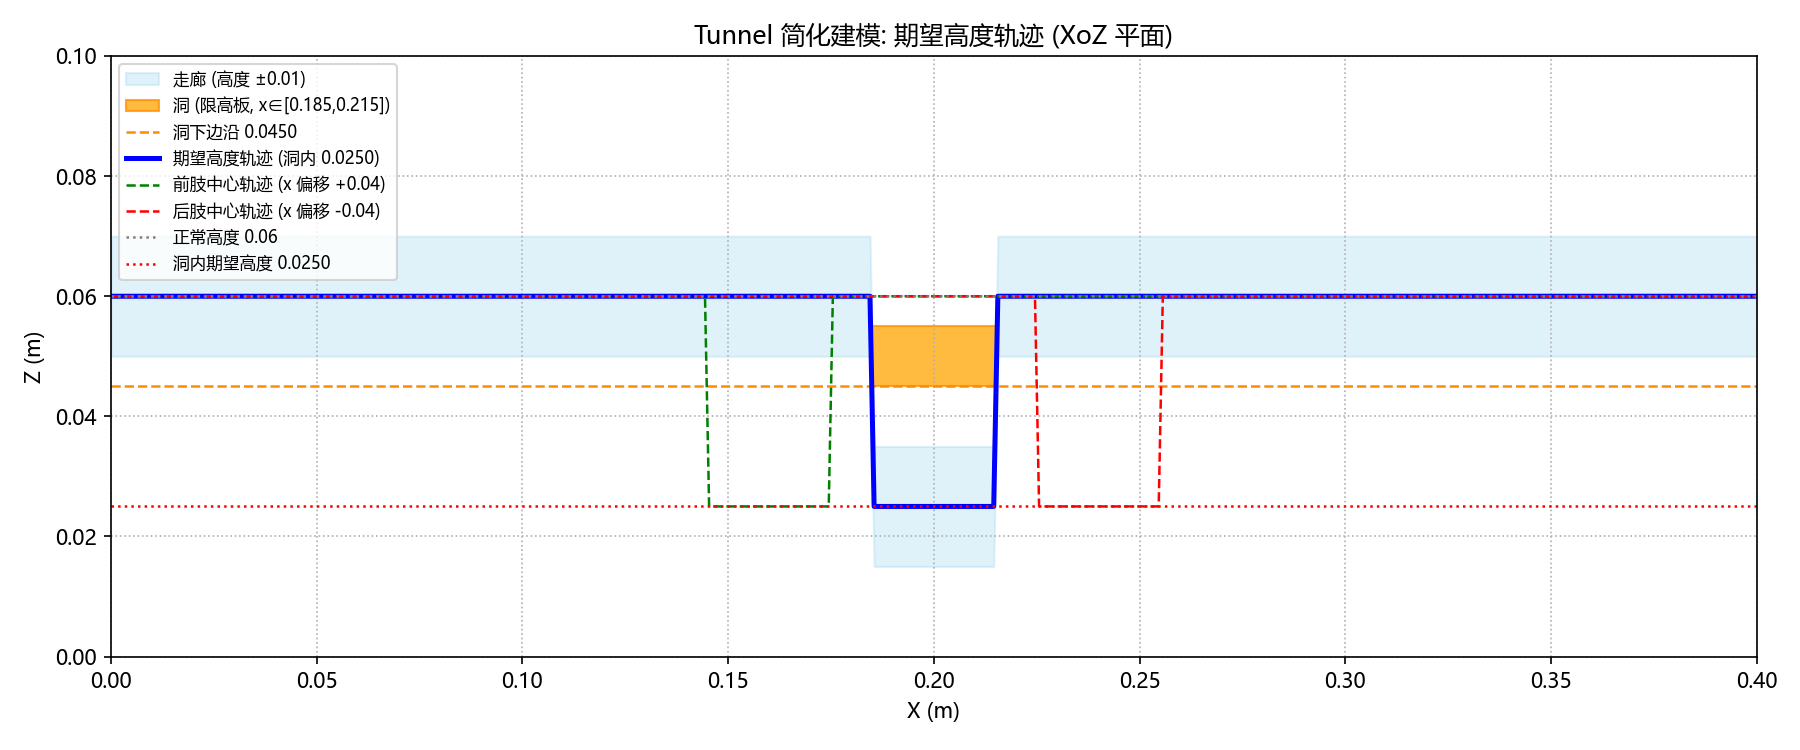
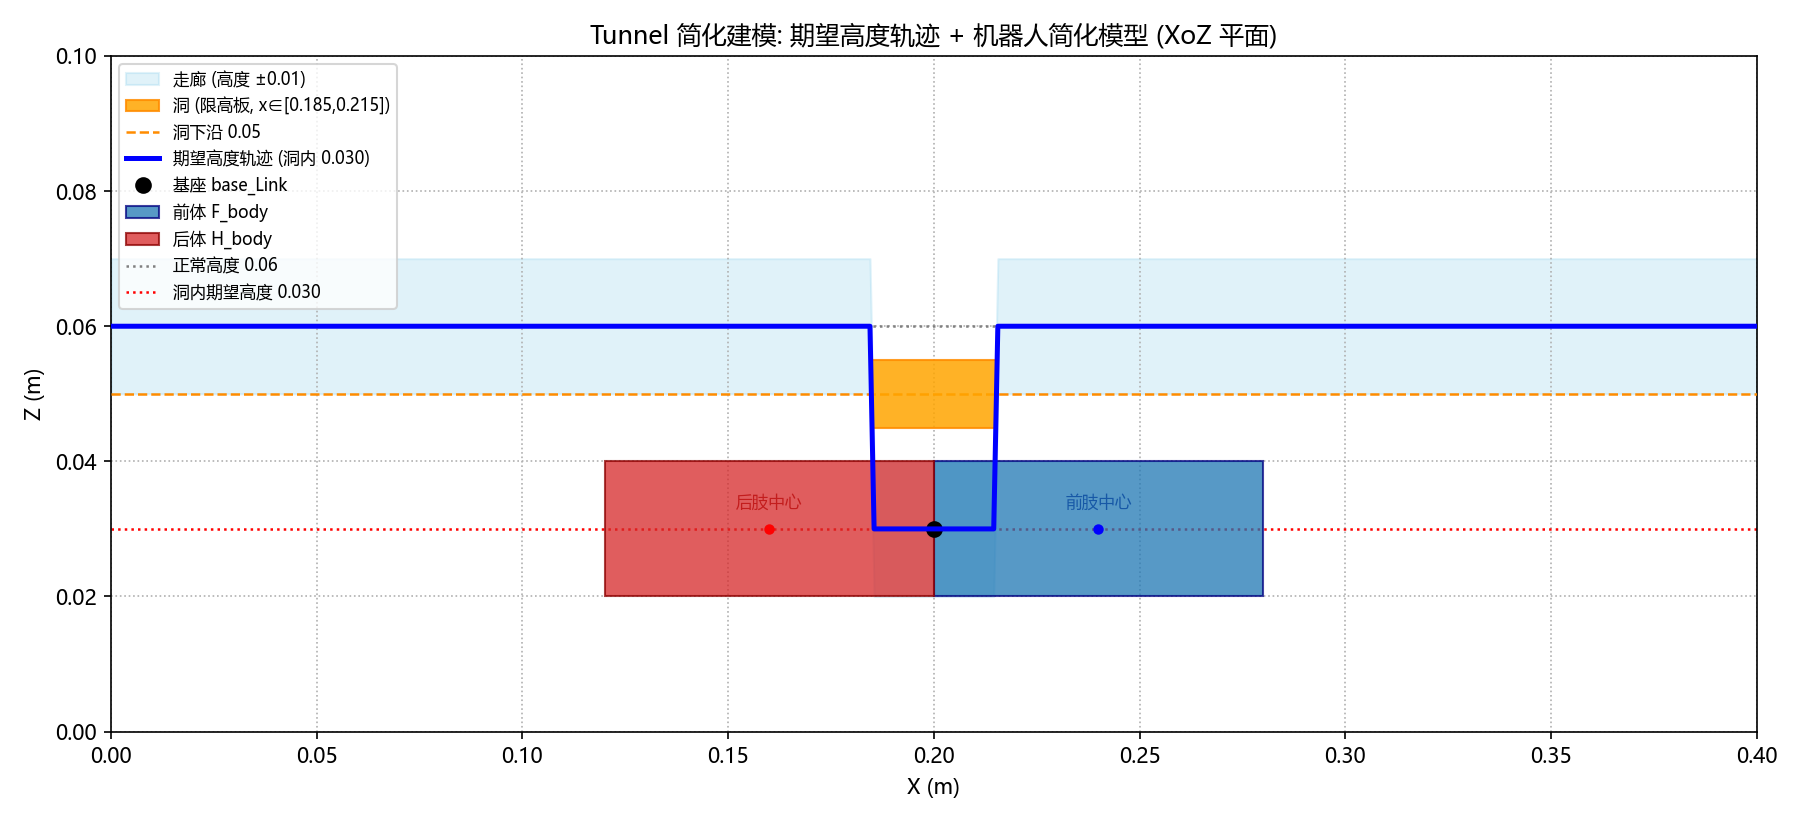
feat(viz): Viz_Tunnel_Path 按三点共享单轨迹重构 — 去掉三条轨迹线; 新增 Slalom 式简化机器人(两铰接矩形F/H_body+基座); 洞下沿取 position z=0.05, 洞内期望高度=0.03

diff --git a/src/mjlab/scripts/Viz_Path/Viz_Tunnel_Path.py b/src/mjlab/scripts/Viz_Path/Viz_Tunnel_Path.py
@@ -1,7 +1,7 @@
 # Viz_Tunnel_Path: 简化 Tunnel (门洞式洞) 任务的期望高度轨迹可视化
 # 建模平面: XoZ (高度走廊)
-# 三个关键点: 前肢中心 / 基座 / 后肢中心, 共享同一条期望高度规则 z_ref(x)
-# (前/后肢中心在 X 方向按 BODY_REF_OFFSET 与基座错开, 因此三点轨迹互为平移)
+# 期望高度由单一参考轨迹 z_ref(x) 表示, 前肢中心/基座/后肢中心共享同一条轨迹
+# 机器人简化建模参考 Slalom 任务: 两个铰接矩形 (F_body + H_body) + 基座
 import numpy as np
 import matplotlib.pyplot as plt
 from matplotlib.patches import Rectangle
@@ -13,27 +13,26 @@ plt.rcParams["axes.unicode_minus"] = False
 
 # ==================== 配置 ====================
 # --- 洞配置 (参考 SQuRo_Tunnel/mdp/hole.py 的 HoleEntityCfg, BOX 几何) ---
-# 几何说明: body pos = 板中心; geom 偏移 +size[2]/2, 半高 = size[2]
-# → 板 z 范围 = [z - size[2]/2, z + 3*size[2]/2], 洞下边沿 = z - size[2]/2
+# 洞下沿 = position z (门洞净空, 用户确认 0.05m); 限高板以 position z 为中心, 厚度 = 2*size[2]
 HOLE_X_CENTER = 0.20      # 洞 x 中心 (m)
 HOLE_HALF_X = 0.015       # 洞 x 半宽 size[0] (m) → 洞 x 范围 [0.185, 0.215]
 HOLE_Y_HALF = 0.10        # 洞 y 半深 size[1] (m), 跨走廊宽度 (XoZ 平面不显示)
-HOLE_Z_CENTER = 0.05      # 洞板 z 中心 position[2] (m)
-HOLE_Z_HALF = 0.005       # 洞板 z 半厚 size[2] (m)
-HOLE_BOTTOM = HOLE_Z_CENTER - HOLE_Z_HALF   # 洞下边沿 (m)
-HOLE_TOP = HOLE_Z_CENTER + HOLE_Z_HALF      # 洞上边沿 (m)
+HOLE_BOTTOM = 0.05        # 洞下沿高度 (m) = hole.py position[2]
+HOLE_THICKNESS = 0.01     # 限高板厚度 (m) = 2*size[2] = 0.01
 
 # --- 期望高度规则 ---
 HEIGHT_NORMAL = 0.06      # 正常段期望高度 (m)
-HEIGHT_CLEARANCE = 0.02   # 过洞时相对洞下边沿的下降余量 (m)
-HEIGHT_HOLE = HOLE_BOTTOM - HEIGHT_CLEARANCE  # 洞内期望高度 = 洞下边沿 - 0.02
+HEIGHT_CLEARANCE = 0.02   # 过洞时相对洞下沿的下降余量 (m)
+HEIGHT_HOLE = HOLE_BOTTOM - HEIGHT_CLEARANCE  # 洞内期望高度 = 0.05 - 0.02 = 0.03
 
 # --- 走廊 (高度上下限) 配置 ---
 CORRIDOR_HALF_HEIGHT = 0.01   # 走廊半高 (m): 期望高度 ± 半高
 
-# --- 三点建模配置 ---
-BODY_REF_OFFSET = 0.04    # 前/后肢中心距基座的 X 向偏移 (m, 同 Slalom path.py)
-SHOW_THREE_POINTS = True  # 是否叠加显示三点轨迹 (前肢中心/基座/后肢中心)
+# --- 机器人简化建模 (参考 Slalom: 两个铰接矩形 F_body + H_body) ---
+BODY_REF_OFFSET = 0.04    # F/H_body 中心距基座的 X 向偏移 (m)
+BODY_HALF_LENGTH = 0.04   # 矩形半长 (沿 X 方向, m)
+BODY_HALF_HEIGHT = 0.01   # 矩形半高 (沿 Z 方向, m)
+ROBOT_BASE_X = 0.20       # 机器人快照的基座 X 位置 (m, 默认对准洞中心)
 
 # --- 轨迹范围与输出 ---
 X_RANGE = (0.0, 0.4)      # 轨迹 x 范围 (m)
@@ -41,7 +40,7 @@ N_SAMPLES = 400           # 采样点数
 SAVE_PATH = Path(__file__).parent / "Result" / "Viz_Tunnel_Path.png"  # 输出图片
 
 
-# 计算期望高度轨迹: 洞内 = 洞下边沿 - 余量, 其余 = 正常高度
+# 计算期望高度轨迹: 洞内 = 洞下沿 - 余量, 其余 = 正常高度
 def compute_height_trajectory(xs: np.ndarray) -> np.ndarray:
     x_left = HOLE_X_CENTER - HOLE_HALF_X
     x_right = HOLE_X_CENTER + HOLE_HALF_X
@@ -49,58 +48,91 @@ def compute_height_trajectory(xs: np.ndarray) -> np.ndarray:
     return np.where(inside, HEIGHT_HOLE, HEIGHT_NORMAL)
 
 
-# 绘制 XoZ 平面期望高度轨迹 + 洞 + 走廊 (含三点轨迹)
+# 在指定位置绘制简化机器人 (两个铰接矩形 + 基座), 共享同一期望高度 z_ref
+def draw_robot(ax, base_x: float, z_ref: float) -> None:
+    # 基座点
+    ax.plot(base_x, z_ref, "ko", markersize=7, zorder=6, label="基座 base_Link")
+
+    # 前体 F_body 矩形 (中心 +BODY_REF_OFFSET)
+    f_x = base_x + BODY_REF_OFFSET
+    ax.add_patch(
+        Rectangle(
+            (f_x - BODY_HALF_LENGTH, z_ref - BODY_HALF_HEIGHT),
+            2 * BODY_HALF_LENGTH, 2 * BODY_HALF_HEIGHT,
+            facecolor="tab:blue", edgecolor="navy", alpha=0.75, zorder=5,
+            label="前体 F_body",
+        )
+    )
+    ax.plot(f_x, z_ref, "bo", markersize=4, zorder=6)
+
+    # 后体 H_body 矩形 (中心 -BODY_REF_OFFSET)
+    h_x = base_x - BODY_REF_OFFSET
+    ax.add_patch(
+        Rectangle(
+            (h_x - BODY_HALF_LENGTH, z_ref - BODY_HALF_HEIGHT),
+            2 * BODY_HALF_LENGTH, 2 * BODY_HALF_HEIGHT,
+            facecolor="tab:red", edgecolor="darkred", alpha=0.75, zorder=5,
+            label="后体 H_body",
+        )
+    )
+    ax.plot(h_x, z_ref, "ro", markersize=4, zorder=6)
+
+    # 三点标注 (前肢中心 / 基座 / 后肢中心, 共享同一 z_ref)
+    ax.annotate("前肢中心", (f_x, z_ref), textcoords="offset points",
+                xytext=(0, 10), ha="center", fontsize=8, color="navy")
+    ax.annotate("后肢中心", (h_x, z_ref), textcoords="offset points",
+                xytext=(0, 10), ha="center", fontsize=8, color="darkred")
+
+
+# 绘制 XoZ 平面期望高度轨迹 + 洞 + 走廊 + 机器人简化模型
 def plot_tunnel_path() -> None:
     xs = np.linspace(*X_RANGE, N_SAMPLES)
     z_ref = compute_height_trajectory(xs)
     x_left = HOLE_X_CENTER - HOLE_HALF_X
     x_right = HOLE_X_CENTER + HOLE_HALF_X
 
-    fig, ax = plt.subplots(figsize=(12, 5))
+    fig, ax = plt.subplots(figsize=(12, 5.5))
 
     # 走廊带 (期望高度 ± 半高)
     ax.fill_between(
         xs, z_ref - CORRIDOR_HALF_HEIGHT, z_ref + CORRIDOR_HALF_HEIGHT,
-        color="skyblue", alpha=0.25, label=f"走廊 (高度 ±{CORRIDOR_HALF_HEIGHT:.2f})",
+        color="skyblue", alpha=0.25, zorder=1,
+        label=f"走廊 (高度 ±{CORRIDOR_HALF_HEIGHT:.2f})",
     )
 
-    # 洞 (门洞限高板剖面)
+    # 洞 (门洞限高板剖面, 板中心 = 洞下沿)
     ax.add_patch(
         Rectangle(
-            (x_left, HOLE_BOTTOM), x_right - x_left, HOLE_TOP - HOLE_BOTTOM,
-            facecolor="orange", edgecolor="darkorange", alpha=0.75,
+            (x_left, HOLE_BOTTOM - HOLE_THICKNESS / 2),
+            x_right - x_left, HOLE_THICKNESS,
+            facecolor="orange", edgecolor="darkorange", alpha=0.85, zorder=4,
             label=f"洞 (限高板, x∈[{x_left:.3f},{x_right:.3f}])",
         )
     )
 
-    # 洞下边沿参考线
+    # 洞下沿参考线
     ax.axhline(
-        HOLE_BOTTOM, color="darkorange", linestyle="--", linewidth=1.2,
-        label=f"洞下边沿 {HOLE_BOTTOM:.4f}",
+        HOLE_BOTTOM, color="darkorange", linestyle="--", linewidth=1.2, zorder=3,
+        label=f"洞下沿 {HOLE_BOTTOM:.2f}",
     )
 
-    # 基座期望高度轨迹 (主轨迹)
-    ax.plot(
-        xs, z_ref, "b-", linewidth=2.4,
-        label=f"期望高度轨迹 (洞内 {HEIGHT_HOLE:.4f})",
-    )
+    # 期望高度轨迹 (单条, 三点共享)
+    ax.plot(xs, z_ref, "b-", linewidth=2.4, zorder=7,
+            label=f"期望高度轨迹 (洞内 {HEIGHT_HOLE:.3f})")
 
-    # 三点轨迹: 前/后肢中心按 BODY_REF_OFFSET 与基座错开 (同一条 z_ref(x) 规则)
-    if SHOW_THREE_POINTS:
-        ax.plot(xs, compute_height_trajectory(xs + BODY_REF_OFFSET), "g--", linewidth=1.2,
-                label=f"前肢中心轨迹 (x 偏移 +{BODY_REF_OFFSET:.2f})")
-        ax.plot(xs, compute_height_trajectory(xs - BODY_REF_OFFSET), "r--", linewidth=1.2,
-                label=f"后肢中心轨迹 (x 偏移 -{BODY_REF_OFFSET:.2f})")
+    # 机器人简化模型 (快照, 基座对准洞中心)
+    base_z = float(compute_height_trajectory(np.array([ROBOT_BASE_X]))[0])
+    draw_robot(ax, ROBOT_BASE_X, base_z)
 
     # 正常高度 / 洞内期望高度参考线
-    ax.axhline(HEIGHT_NORMAL, color="gray", linestyle=":", linewidth=1.2,
+    ax.axhline(HEIGHT_NORMAL, color="gray", linestyle=":", linewidth=1.2, zorder=2,
                label=f"正常高度 {HEIGHT_NORMAL:.2f}")
-    ax.axhline(HEIGHT_HOLE, color="red", linestyle=":", linewidth=1.2,
-               label=f"洞内期望高度 {HEIGHT_HOLE:.4f}")
+    ax.axhline(HEIGHT_HOLE, color="red", linestyle=":", linewidth=1.2, zorder=2,
+               label=f"洞内期望高度 {HEIGHT_HOLE:.3f}")
 
     ax.set_xlabel("X (m)")
     ax.set_ylabel("Z (m)")
-    ax.set_title("Tunnel 简化建模: 期望高度轨迹 (XoZ 平面)")
+    ax.set_title("Tunnel 简化建模: 期望高度轨迹 + 机器人简化模型 (XoZ 平面)")
     ax.set_xlim(*X_RANGE)
     ax.set_ylim(0.0, 0.10)
     ax.grid(True, linestyle=":")
